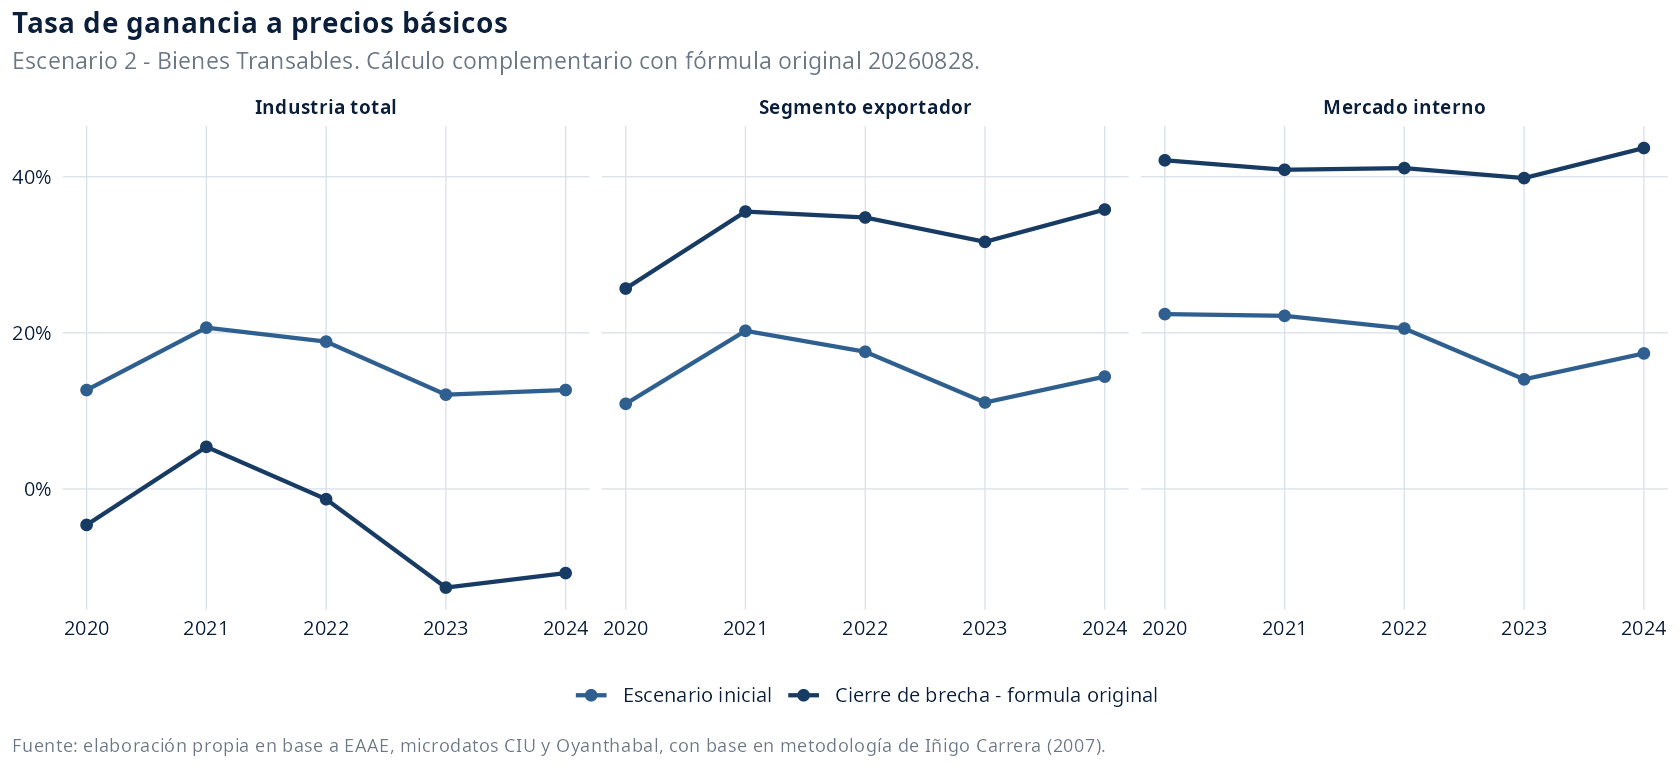
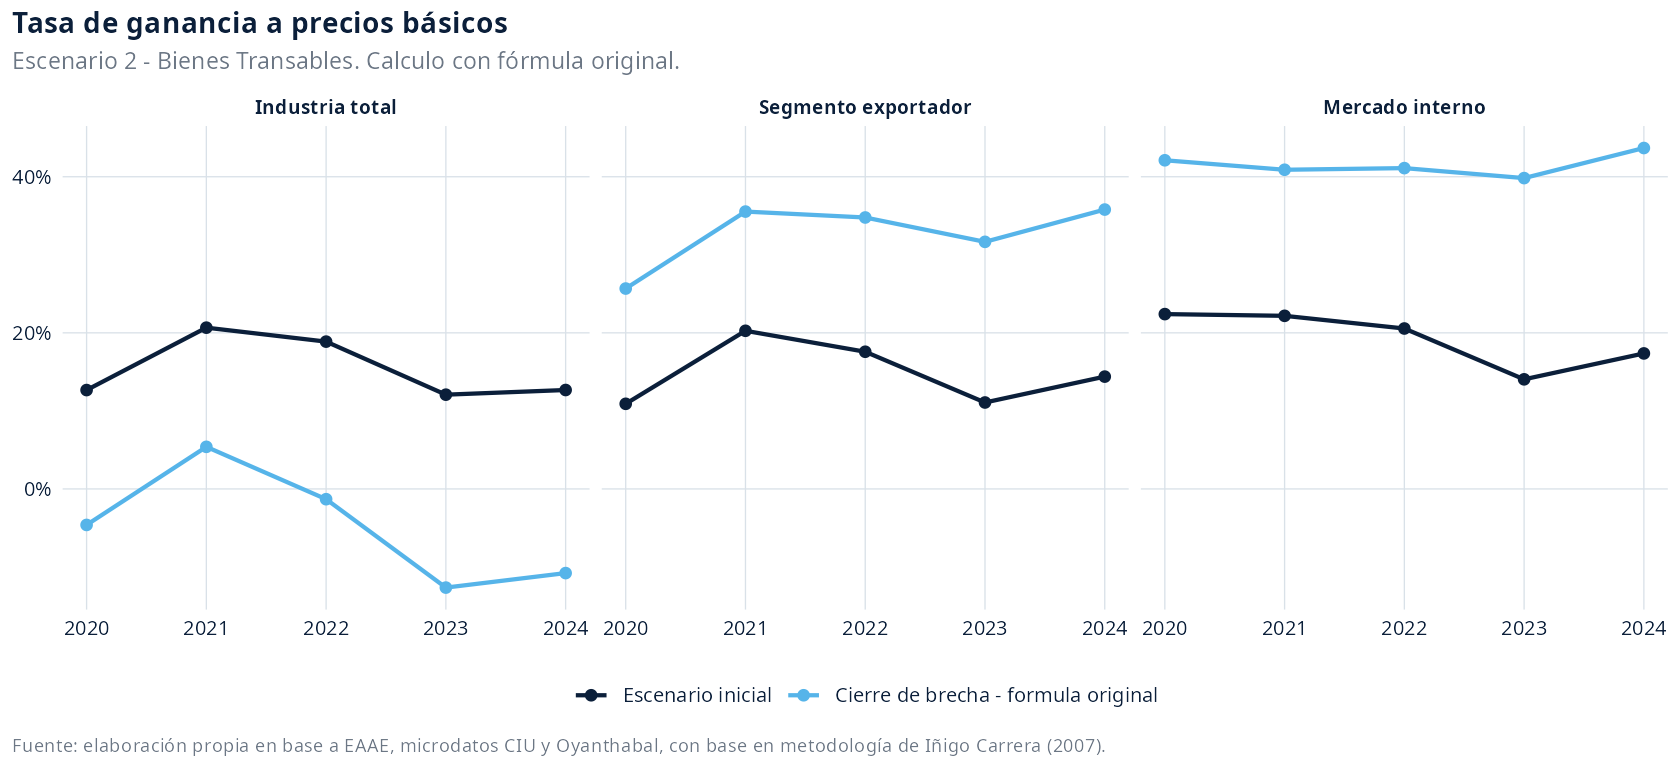
correcciones minuta y gráficos tasa ganancia

diff --git a/docs/20260908_resultados_devaluacion_escenarios_integrados.md b/docs/20260908_resultados_devaluacion_escenarios_integrados.md
@@ -4,7 +4,7 @@ Fuente de trabajo: `data/analysis-data/20260908_panel_eaae_2020_2024_industria_e
 
 ## Introducción
 
-Esta minuta actualiza la lectura de los escenarios de cierre de brecha cambiaria para la industria manufacturera uruguaya a partir del XLSX regenerado con prefijo 20260908. La unidad de análisis son tres secciones: industria total, segmento exportador y segmento orientado al mercado interno. El ejercicio se expresa en valores corrientes y se concentra en la masa de ganancia a precios básicos. Como complemento, cada escenario reincorpora un gráfico de tasa de ganancia a precios básicos calculado con la fórmula original previa a la corrección del 31/08.
+Esta minuta presenta la lectura de los escenarios de cierre de brecha cambiaria para la industria manufacturera uruguaya. La unidad de análisis son tres secciones: industria total, segmento exportador y segmento orientado al mercado interno. El ejercicio se expresa en valores corrientes y se concentra en la masa de ganancia a precios básicos.
 
 El primer escenario recoge la incidencia directa del comercio exterior. El segundo amplía el ejercicio hacia bienes transables cuyos precios internos se rigen por precios internacionales. En ambos casos, el cálculo se realiza año a año, sin efectos acumulados ni respuestas dinámicas de cantidades, productividad o estructura productiva.
 
@@ -87,7 +87,7 @@ La minuta usa cuatro coeficientes de incidencia para construir la masa de gananc
 
 La apropiación de riqueza vía sobrevaluación de la moneda se aplica a los componentes importados de costos y capital y a la parte exportada de la producción. Por tanto, recoge el efecto directo de importaciones y exportaciones sobre la masa de ganancia.
 
-El primer gráfico recupera la tasa de ganancia a precios básicos calculada con la fórmula original del ejercicio 20260828. Los gráficos siguientes mantienen la fórmula corregida vigente para los deltas de masa de ganancia: uno muestra, para el último año disponible, el monto apropiado o cedido por componente; el otro resume el efecto neto anual como porcentaje de la ganancia a precios básicos del escenario inicial.
+El primer gráfico presenta la tasa de ganancia a precios básicos calculada con la fórmula original. Los gráficos siguientes utilizan una fórmula corregida para mostrar la apropiación actual de riqueza vía sobrevaluación de la moneda: uno muestra, para el último año disponible, el monto apropiado o cedido por componente; el otro resume el efecto neto anual como porcentaje de la ganancia a precios básicos del escenario inicial.
 
 ![Gráfico 1. Tasa de ganancia a precios básicos - fórmula original](../output/figures/devaluacion_escenarios_integrados_20260908/00_comercio_exterior_tasa_ganancia_pb_formula_original.png)
 
@@ -99,7 +99,7 @@ El primer gráfico recupera la tasa de ganancia a precios básicos calculada con
 
 La apropiación de riqueza vía sobrevaluación alcanza al conjunto de mercancías cuyos precios internos se rigen por precios internacionales, aunque sean producidas localmente y vendidas en el mercado interno. Así, incorpora la revaluación de producción local transable y su efecto sobre la masa de ganancia.
 
-El primer gráfico recupera la tasa de ganancia a precios básicos calculada con la fórmula original del ejercicio 20260828. Los gráficos siguientes mantienen la fórmula corregida vigente para los deltas de masa de ganancia: uno muestra, para el último año disponible, el monto apropiado o cedido por componente; el otro resume el efecto neto anual como porcentaje de la ganancia a precios básicos del escenario inicial.
+El primer gráfico presenta la tasa de ganancia a precios básicos calculada con la fórmula original. Los gráficos siguientes utilizan una fórmula corregida para mostrar la apropiación actual de riqueza vía sobrevaluación de la moneda: uno muestra, para el último año disponible, el monto apropiado o cedido por componente; el otro resume el efecto neto anual como porcentaje de la ganancia a precios básicos del escenario inicial.
 
 ![Gráfico 1. Tasa de ganancia a precios básicos - fórmula original](../output/figures/devaluacion_escenarios_integrados_20260908/00_bienes_transables_tasa_ganancia_pb_formula_original.png)
 
